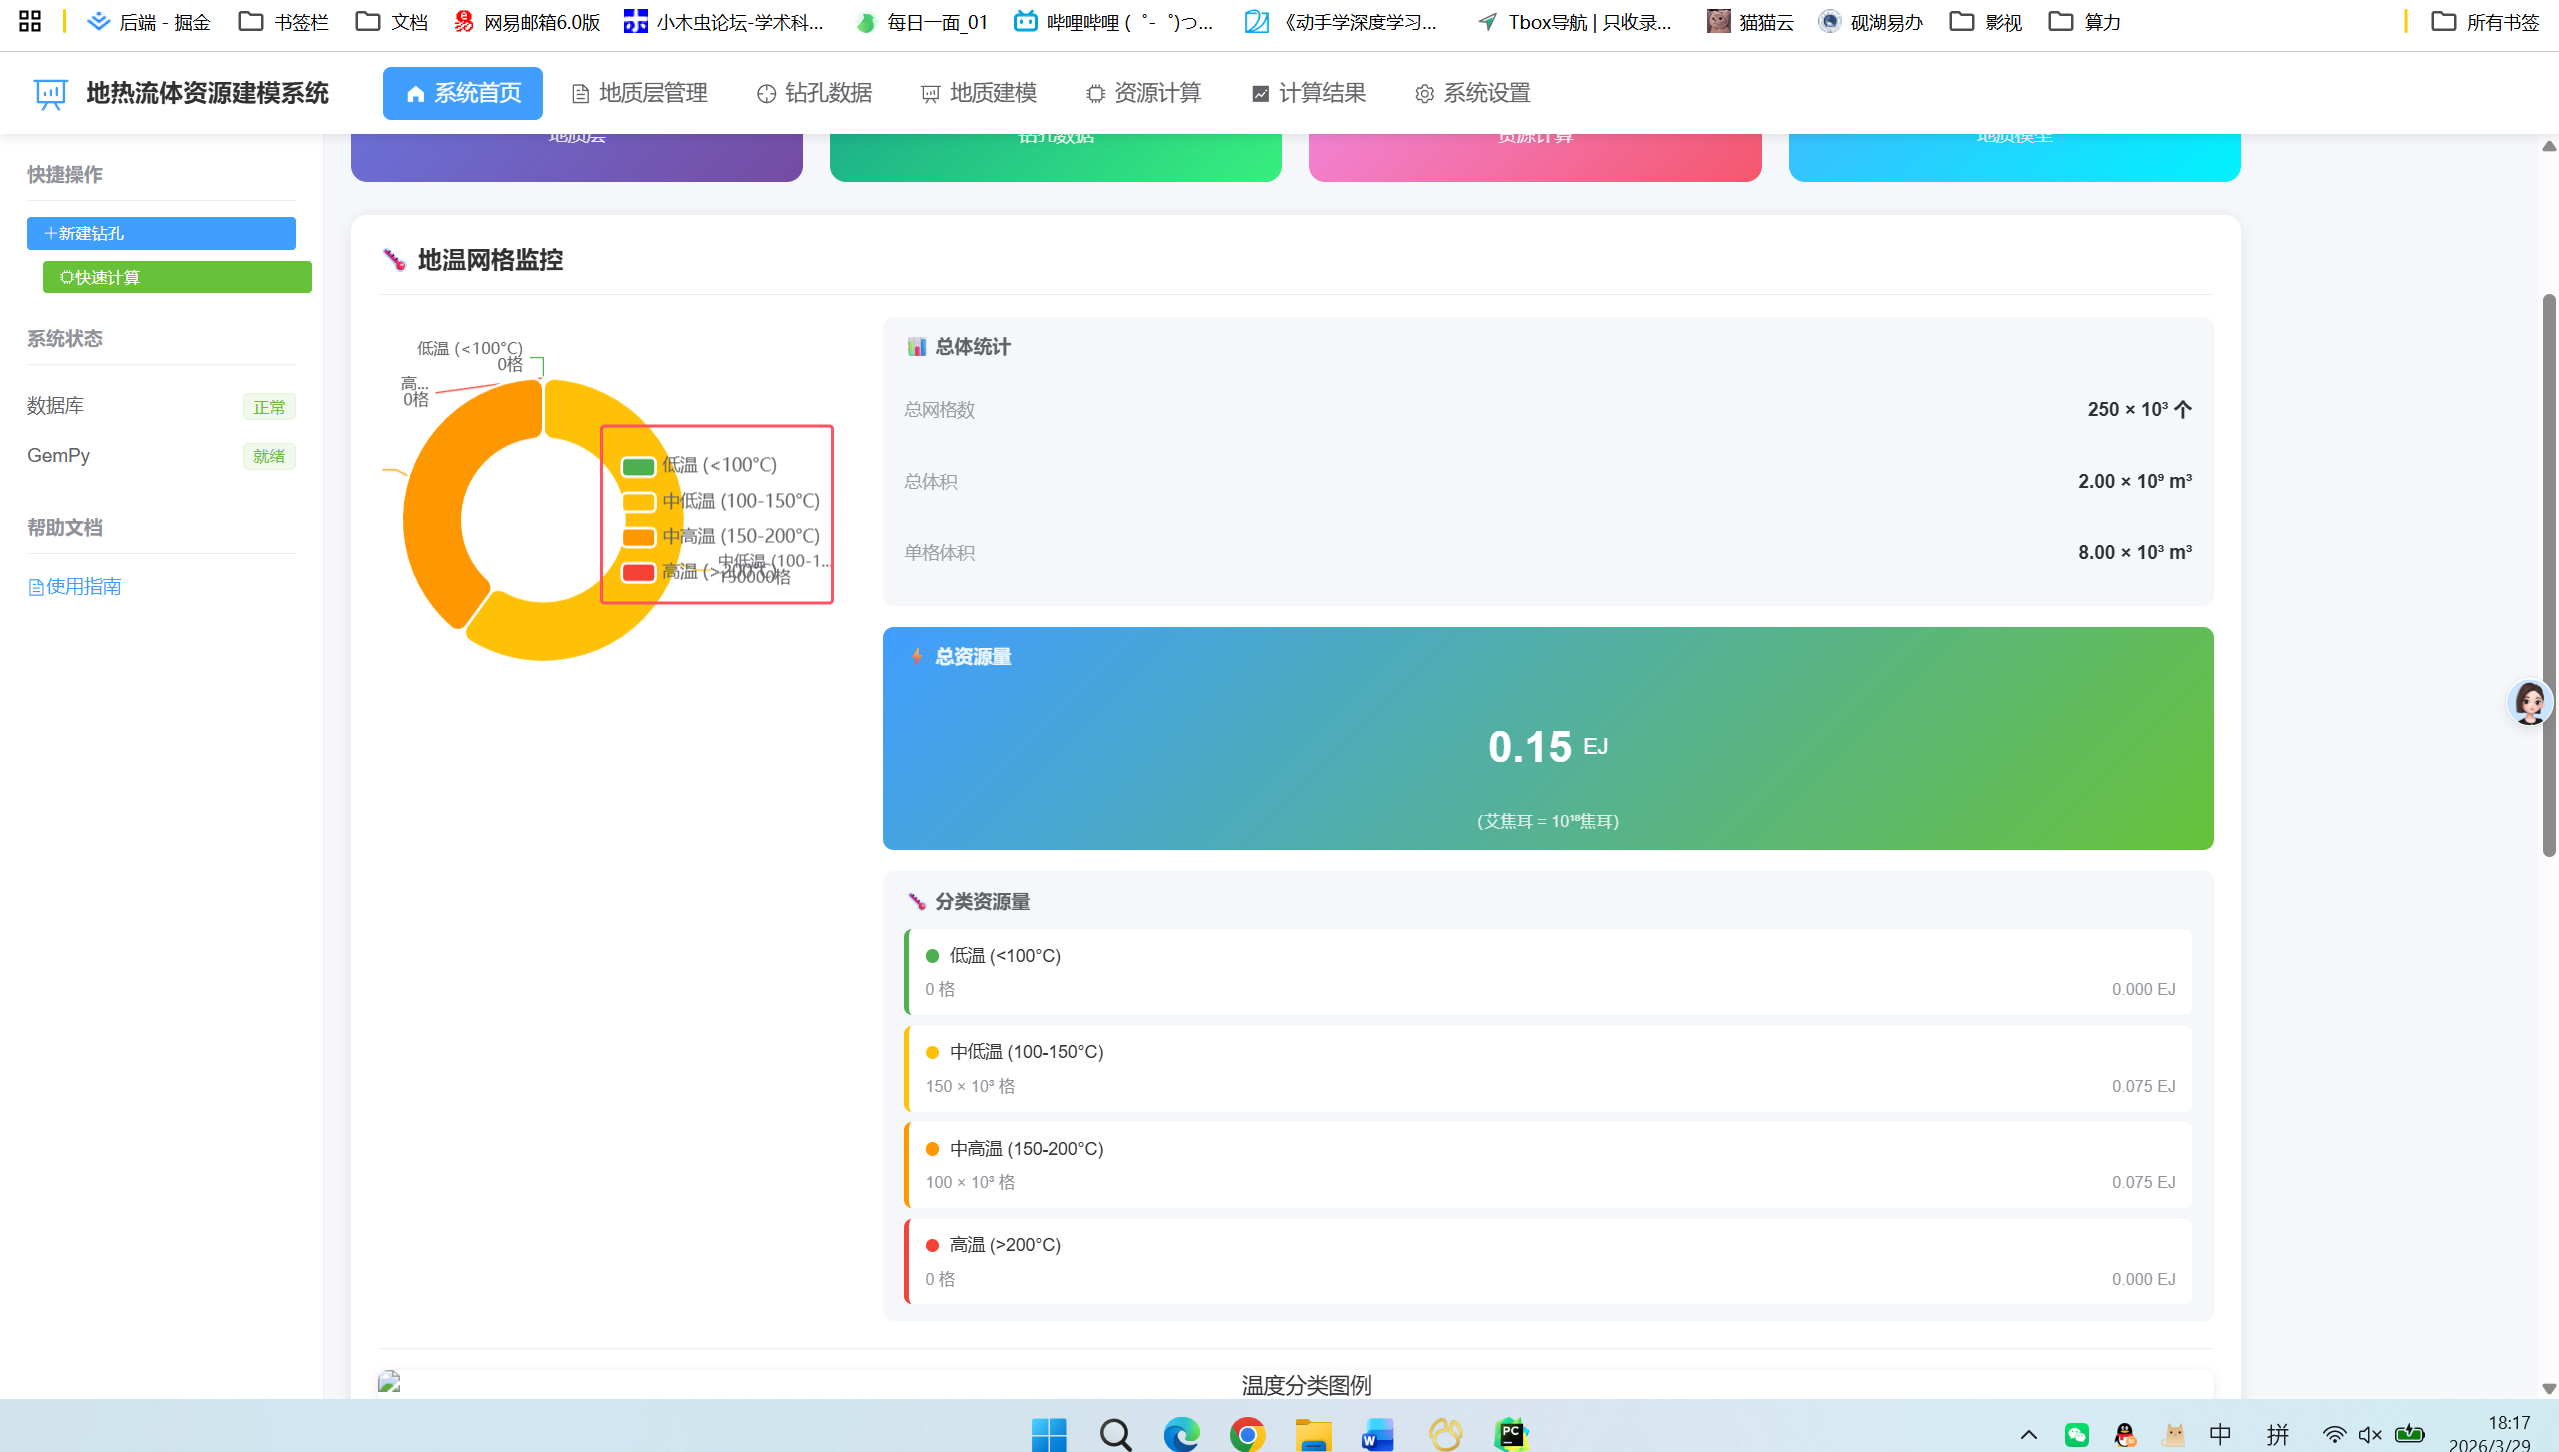
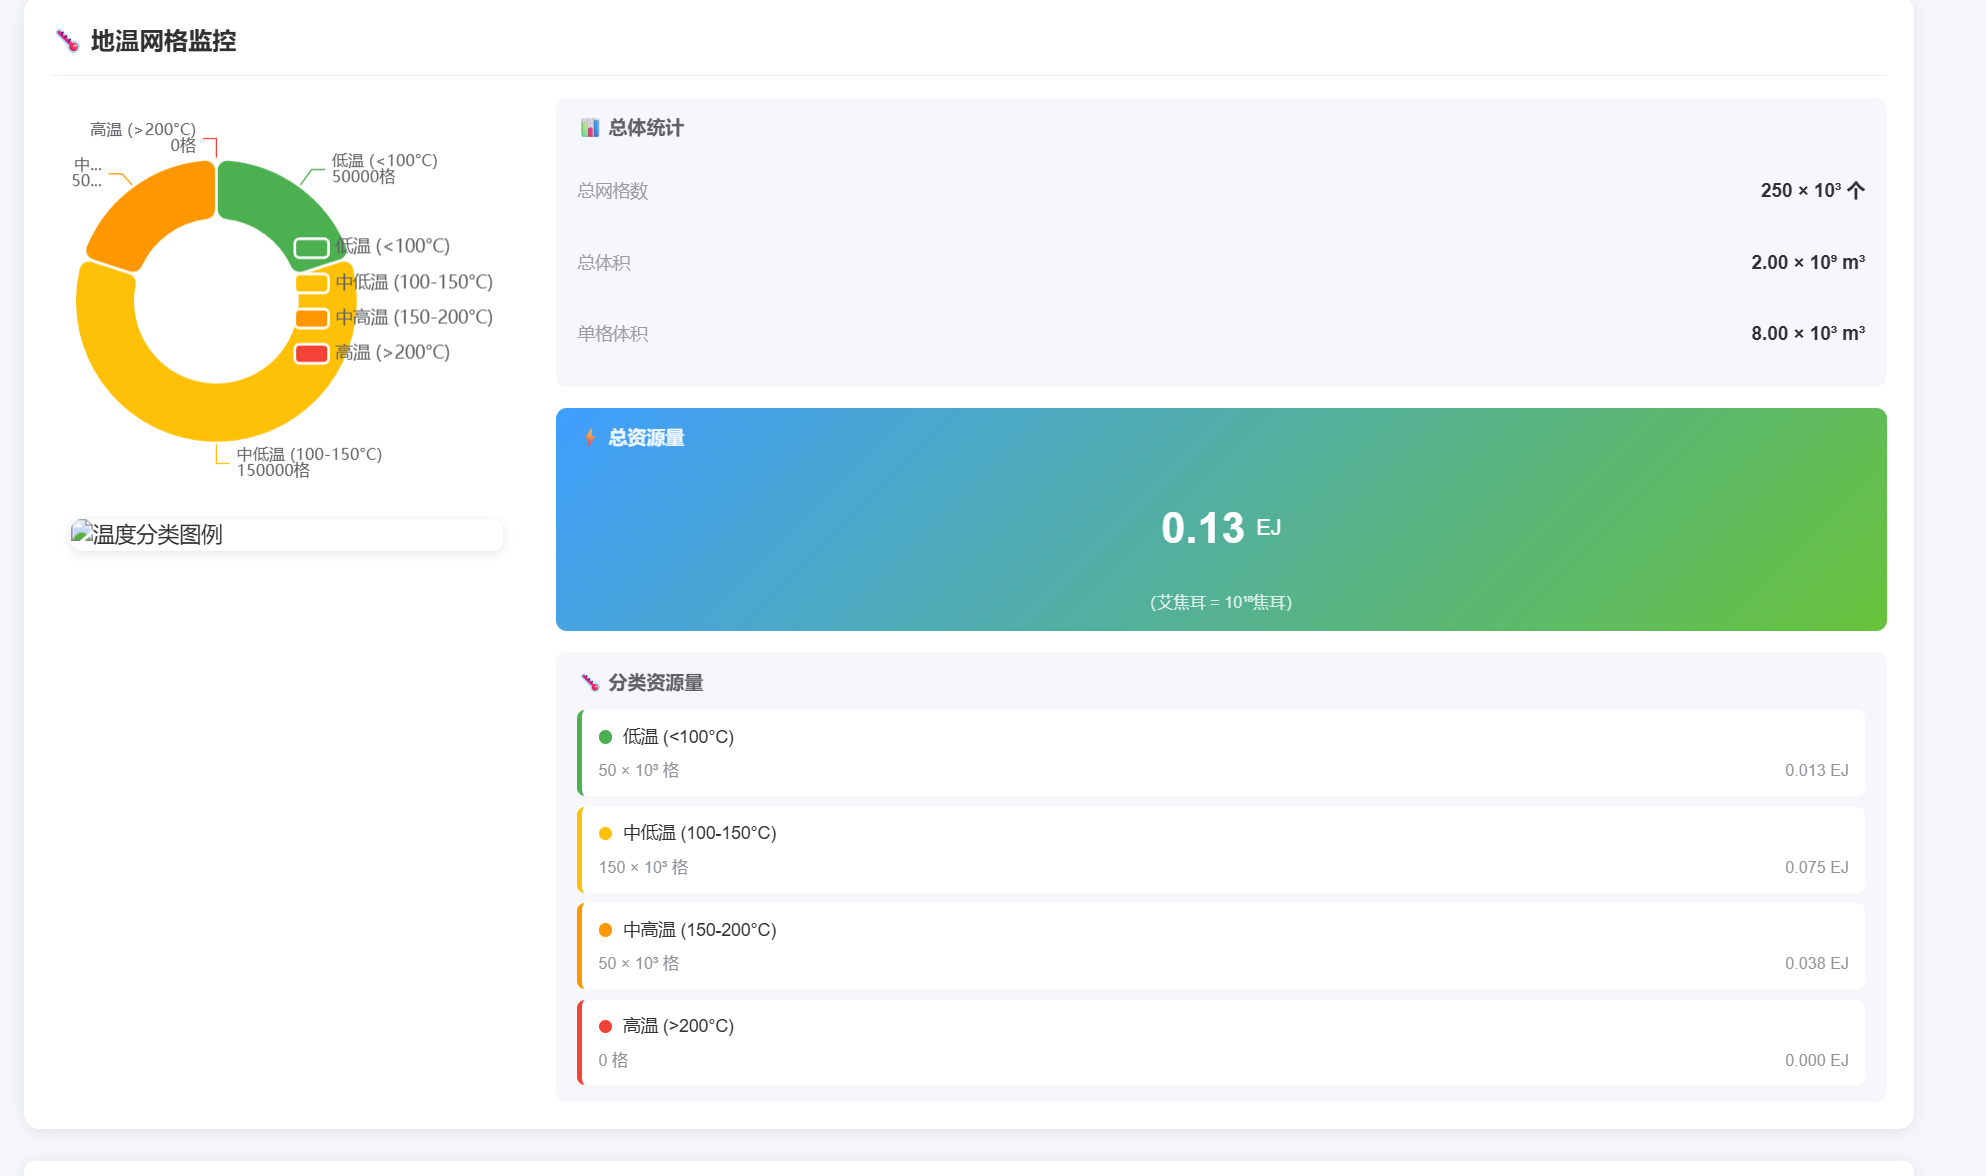
fix: 优化地温网格扇形图，移除图例并居中显示

diff --git a/frontend/src/components/TemperatureMonitor.vue b/frontend/src/components/TemperatureMonitor.vue
@@ -170,24 +170,15 @@ const updateChart = () => {
         `
       }
     },
-    legend: {
-      orient: 'vertical',
-      right: '5%',
-      top: 'center',
-      textStyle: {
-        color: '#606266',
-        fontSize: 13
-      }
-    },
     series: [
       {
         name: '地温分布',
         type: 'pie',
-        radius: ['40%', '70%'],
-        center: ['35%', '50%'],
+        radius: ['35%', '65%'],
+        center: ['50%', '50%'],
         avoidLabelOverlap: true,
         itemStyle: {
-          borderRadius: 8,
+          borderRadius: 6,
           borderColor: '#fff',
           borderWidth: 2
         },
@@ -195,18 +186,19 @@ const updateChart = () => {
           show: true,
           position: 'outside',
           formatter: '{b}\n{c}格',
-          fontSize: 12,
-          color: '#606266'
+          fontSize: 11,
+          color: '#606266',
+          lineHeight: 16
         },
         labelLine: {
           show: true,
-          length: 15,
-          length2: 10
+          length: 10,
+          length2: 8
         },
         emphasis: {
           label: {
             show: true,
-            fontSize: 14,
+            fontSize: 13,
             fontWeight: 'bold'
           },
           itemStyle: {
